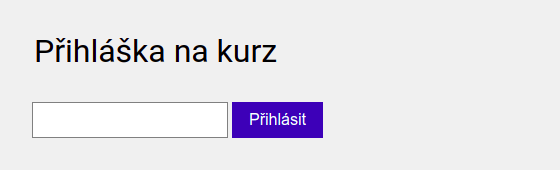
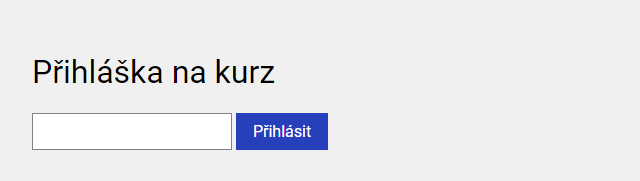
Úprava lekce s formuláři podle nových CSS

Changed region(s): [[0.0304, 0.2059, 0.5161, 0.4706], [0.0304, 0.5882, 0.5768, 0.8529]]

diff --git a/zaklady-js/udalosti-formulare/slozitejsi-formulare.md b/zaklady-js/udalosti-formulare/slozitejsi-formulare.md
@@ -13,53 +13,54 @@ Přidejme do našeho formuláře políčko pro přijmení.
 </form>
 ```
 
-::fig[Jméno příjmení]{src=assets/jmeno-prijmeni.png size=80}
+::fig[Jméno příjmení]{src=assets/jmeno-prijmeni.png}
 
 Tady už se ale uživatel moc nevyzná kam má co psát. Potřebujeme políčka nějak popsat. 
 
 ### Popisky
 
-Pro zpřehlednění formulářů je dobré k jednotlivým vstupním pvkům přidat popisky. K tom používáme značku `label`. Aby prohlížeč věděl, ke kterému prvku patří který popisek, je potřeba je svázat pomocí attributu `for`. 
+Pro zpřehlednění formulářů je dobré k jednotlivým vstupním pvkům přidat popisky. K tom používáme značku `label`.
 
 ```html
-<label for="firstName">Jméno:</label>
-<input id="firstName" type="text" />
+<label>
+  Jméno: <input type="text" />
+</label>
 ```   
 
 S použitím popisků bude náš registrační formulář vypadat následovně.
 
 ```html
 <form id="registration">
-  <label for="firsName">Jméno:</label>
-  <input id="firstName" type="text" />
-  <label for="lastName">Příjmení:</label>
-  <input id="lastName" type="text" />
+  <label class="field">
+    Jméno: <input type="text" id="firstName" />
+  </label>
+  <label class="field">
+    Příjmení: <input type="text" id="lastName" />
+  </label>
   <button type="submit">Přihlásit</button>
 </form>
 ```
 
-::fig[labely]{src=assets/labely.png size=80}
+::fig[labely]{src=assets/labely.png}
 
 Takto ale rozložení prvků nevypadá moc hezky. Využijeme proto více našich připravných stylů a dáme formuláři hezčí strukturu.
 
 ```html
 <form id="registration">
   <h1>Přihláška na kurz</h1>
-  <div class="field">
-    <label for="firsName">Jméno:</label>
-    <input id="firstName" type="text" />
-  </div>
-  <div class="field">
-    <label for="lastName">Příjmení:</label>
-    <input id="lastName" type="text" />
-  </div>
+  <label class="field">
+    Jméno: <input type="text" id="firstName" />
+  </label>
+  <label class="field">
+    Příjmení: <input type="text" id="lastName" />
+  </label>
   <div class="controls">
     <button type="submit">Přihlásit</button>
   </div>
 </form>
 ```
 
-::fig[Nastylované labely]{src=assets/labely-styled.png size=80}
+::fig[Nastylované labely]{src=assets/labely-styled.png}
 
 ### Další druhy formulářových prvků
 
@@ -73,21 +74,29 @@ Kromě základního textového políčka máme i další typy například `passw
 Umožňuje uživateli zaškrtnout možnost ano či ne. 
 
 ```html
-<label><input type="checkbox" />Chci dostávat informovat o dalších akcích</label>
+<label class="check">
+  <input type="checkbox" />Chci dostávat informovat o dalších akcích
+</label>
 ```
+
+::fig[labely]{src=assets/checkbox.png}
 
 ### Rozbalovací nabídka
 
 Umožňuje výběr z několika možností formou rozbalovací nabídky.
 
 ```html
-<label for="reference">Odkud o nás víte:</label>
-<select id="referece">
-  <option value="facebook">Facebook</option>
-  <option value="instagram">Instagram</option>
-  <option value="friends">Od známých</option>
-  <option value="other">Jiné...</option>
-</select>
+<label class="field">
+  Odkud o nás víte:
+  <select>
+    <option value="facebook">Facebook</option>
+    <option value="instagram">Instagram</option>
+    <option value="friends">Od známých</option>
+    <option value="other">Jiné…</option>
+  </select>
+</label>
 ```
+
+::fig[labely]{src=assets/select.png}
 
 Tímto výčet zdaleka nekončí. Další typy vstupních prvků najdete na [MDN](https://developer.mozilla.org/en-US/docs/Web/HTML/Element/input#input_types) nebo [W3Schools](https://www.w3schools.com/html/html_form_input_types.asp). Výše uvedené prvky už nám však zcela postačí k vytvoření jednoduchých formulářů.

diff --git a/zaklady-js/udalosti-formulare/cvlekce/objednavka.md b/zaklady-js/udalosti-formulare/cvlekce/objednavka.md
@@ -5,7 +5,7 @@ demand: 2
 
 Podle instrukcí níže vytvořte jednoduchý formulář pro dokončení objednávky na nějakém e-shopu. Formulář umožní uživateli zadat číslo platební karty a způsob dopravy.
 
-1. Vytvořte HTML stránku s JavaScriptem. Vložte do stránky [styly pro formuláře](https://raw.githubusercontent.com/Czechitas-podklady-WEB/formulare/master/style.css) ať se nemusíte trápit se stylováním.
+1. Vytvořte HTML stránku s JavaScriptem. Vložte do stránky [styly pro formuláře](https://raw.githubusercontent.com/Czechitas-podklady-WEB/formulare/main/style.css) ať se nemusíte trápit se stylováním.
 1. Vytvořte formulář s textovým políčkem pro číslo platební karty. Dejte mu štítek „Platební karta“ a atribut `type` nastavte na `text`.
 1. Přidejte do formuláře rozbalovací nabídku se štítkem „Doprava“. Jako jednotlivé možnosti použijte prvky `option` s následujícím obsahem:
 
